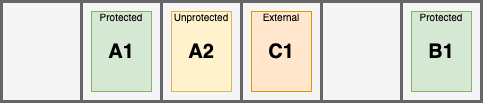
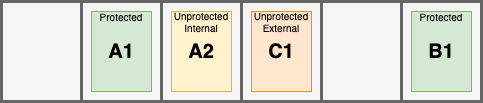
:memo: Changing advice and design files and images

diff --git a/documentation/design.md b/documentation/design.md
@@ -1,50 +1,83 @@
 # Occamy
 
-Occamy is a library designed to be a central entry point for handling
-computationally intense requests. It is intended designed to assist in the 
-coordination of communication and allocation of resources for these requests.
-
-The core constraints for the occamy server are:
-
-- Requests are handled asynchronously but must be performed immediately.
-- Computations are allowed to be done in a distributed fashion across multiple "machines"/"instances".
-- On each instance there is a limited number of requests that can be handled concurrently. This is to avoid having a high CPU load on a server that degrades the results of request.
-- Spare resources should be used whenever possible to avoid wasted resources but must be immediately freed up if required for a new incoming request.
-
-### The Design
-
-The general design and attributes of the server is as follows (for specific details see implementation):
-
-- The occamy server is designed to be part of a distributed system. Each server should be independent and have zero knowledge of what the other servers are doing.
-
-- The occamy server is independent of all logic regarding the actual handling of requests. This was chosen to separate the concerns of managing the CPU allotments for requests and performing the requests. The idea is that this package could be extracted into its own repository and used with other similar services.
-
-- The occamy server is intended to be independent of messaging/queuing protocol even though it is inspired by RabbitMQ, which means there are some concepts that have been adopted. This was chosen to make changing to other technologies easier while not prematurely or unnecessarily abandoning RabbitMQ features.
-
-- The occamy server is designed to handle asychronous messages. These messages should have a header and a body as well as being able to declared successfully completed or not, i.e. acked and nacked, respectively.
- 
-- The server is initialised with a given number of slots as well as a *handler* which can convert a body and header into a task. A task represents a computation that to be done and each slot may contain at most one task. This is to ensure that only a limited number of requests can be handled.
-
 <p align="center">
-<img src="images/slots.png" alt="communication" class="center" width="40%" height="40%">
+<em>
+Servers that utilise spare resources for computational intense distributed tasks. 
+</em>
 </p>
 
-- The server has two handle methods for two different types of messages. 
-  - *Request messages* are messages that represent a request for computation. Requests messages are only sent to one occamy server. Each request will be converted into a task and should have an ID (which isn't necessarily unique). This task will be assigned to a slot.
-  - *Control messages* are messages that provide information to running tasks or the occamy server itself. Control messages are passed to all occamy servers.
-    Once a control message reaches a server it is passed on to one or more tasks based on the task ID in the header or just to the server. 
-    External services and tasks are expected to communicate to tasks via control messages. For example, a request may be cancelled via a control message.
-    If a control message is given without an associated task ID then the message is interpreted like a request messages and converted into a task using the handler, however, it is not immediately assigned to a slot but instead it is set aside to be used in the expansion process (see below).
+Elastic horizontal scaling of services in cloud infrastructure is a convenient and effective way to provide the required resources for running a service with minimal wastage. For computational intense request which have irregular and unpredictable schedules resources often end up being overprovisioned/underutilised to ensure that requests can be handled promptly.
+
+Occamy servers are designed to utilises spare provisioned resources. The server
+
+1. ensures resources can promptly handle any incoming request, and
+2. uses spare resources to assist in processing current requests.
+
+The core idea is to have computational tasks which expand by creating assistant tasks to help the computation and can be stopped to provide resources for new incoming request with the server providing coordination.
+
+<p align="center">
+<em>
+Scaling of tasks within a service.
+</em>
+</p>
+
+Elastic horizontal scaling is like a library that adds or removes bookcases depending on the number of books. In contrast, Occamy's scaling is like adding duplicate books if there is space and removing duplicate books if new books arrive. The name Occamy comes from the fictional creature which can shrink and grow to fit the empty space around it.
+
+
+
+### The Original Use Case
+
+The original use case provides a useful example in understanding the design of the Occamy server. The situation was as follows:
+
+1. There was a distributed service (microservices) for handling optimisation requests in which all communication was asynchronous. The requests had to be handled promptly but had irregular and unpredictable schedules with frequent bursts.
+2. Optimisations required between 4 & 12 CPUs for between one & ten minutes to provide results. Additional CPUs could be used in parallel to provide better or faster results. These optimisation were performed using a master and assistants approach where there was a minimum number of assistants considered necessary.
+3. There was balancing between providing enough resources so that requests could be handled promptly and minimising wastage. 
+
+Ultimately, the requirement to handle requests promptly was a considered a requirement which meant there was a minimum amount of resources provisioned. The aim became to use the spare resources while not blocking or delaying incoming requests. There are two simple scenarios demonstrate the basic requirements.
+
+**Scenario A:** A request comes in while there are no requests currently being handled and no other requests come in while this request is being handled. In this scenario every instance of the microservices should be fully dedicated to handling the request.
+
+**Scenario B:** A request comes in while there are requests being handled which are using more resources than is considered necessary for their respective optimisations. In this case enough of those unnecessary resources used should be freed to ensure the new request has its minimum amount of resources.
+
+
+
+### The Distributed Systems View
+
+An Occamy server is designed for distributed systems. The key points when regarding the whole system are:
+
+- The servers are independent and have no knowledge of the servers.
+
+- Communication to the servers is to be done using some messaging protocol. Messages will contain data along with ability to:
+	- Acknowledge the message as succesfully handled and remove it from the queue.
+	- Reject the message as impossible to handle and remove it from the queue.
+	- Requeue the message if the server can not currently handle it e.g. it is shutting down. 
+
+- The servers accept two kinds of messages:
+  - *Request messages* are messages that represent a request for computation. Requests messages must be only sent to one server.
+  - *Control messages* are messages that provide information to running tasks or to the Occamy server itself. Control messages must be passed to all servers.
 
 <p align="center">
 <img src="images/communication.png" alt="communication" class="center" width="30%" height="30%">
 </p>
- 
+
+### The Server View
+
+Each server is intended to work independently. The key points when considering the individual servers are:
+
+- The server must contain a limited of *slots* which can hold at most one task. A task represents a computation that to be done that also has the ability to handle data of message and the optional ability to create additional tasks. 
+
+<p align="center">
+<img src="images/slots.png" alt="slots" class="center" width="40%" height="40%">
+</p>
+
+- The server has two two methods handling the two kinds of messages: 
+	  - *Request messages* are converted into tasks. These task are assigned to an available slot. If there is no available slot or a task is interrupted before completion the corresponding message is requeued.
+	  - *Control messages* will be passed on to all relevant tasks running or converted into task and set aside to be used in the expansion process (see below). This is based on the data contained in the message.
+
 - The slots will have a status depending on the task.
-  - *Empty* slots are not running and can be overwritten at any time.
-  - Slots with *protected* tasks are running task which have been created due to an incoming request i.e. via the request handler.
-    These tasks are never interrupted except when shutting the server down, in which the original requests will be rejected and requeued.
-  - Slots with *unprotected* or *external* tasks are running tasks which have been generated to utilise spare resources and created in the expansion process (see below). 
+  - *Empty* slots contain no task and can have a task added at any time.
+  - Slots with status *protected* are running task which have been created due to an incoming request i.e. via the request handler. These tasks are never interrupted except when shutting the server down, in which the original message will be rejected and requeued.
+  - Slots with status *unprotected* are running tasks which have been generated to utilise spare resources and created in the expansion process (see below). 
     These can be interrupted at any time. Tasks must be implemented to accept being killed quickly and without consequence.
 
 <p align="center">
@@ -52,17 +85,31 @@ The general design and attributes of the server is as follows (for specific deta
 </p>    
 
 - At regular intervals the server will run an *expansion* process. 
-  This is inspired by the fictional *occamy* creature from *Fantastic Beasts and Where to Find Them* in which the creature grew or shrank in order to fit available space.
-  During this process the server will check if there is empty slots and attempt to generate new tasks in the following order:
-  1. The protected tasks will be checked to see if they can be expanded (tasks are required to have an *Expand*) to create additional tasks. These tasks are given the status *unprotected*. It is important to note that expansion is optional.
-  2. This is repeated for *unprotected* and *external* tasks, which will create tasks with the statuses *unprotected* and *external* respectively.
-  3. The server will use any requests that came in as a control message. The task will be given the status *external*. 
+  During this process the server will check if there is empty slots and attempt to create and add new tasks in the following ways:
+  1. The protected tasks will be checked to see if they can create additional tasks - an optional functionality. These tasks are assigned to slots and marked as *unprotected*.
+  2. This is repeated for tasks in slots as marked *unprotected*.
+  3. The server will use any task that was create from a request that came in as a control message. These task will be assigned slots and marked as *unprotected*
+
+	Tasks are referred to as *internal* if they are created by *protected* or *internal* tasks. Tasks are referred to as *external* if they converted from a control message or are created by a *external* task.
 
 <p align="center">
 <img src="images/expansion.png" alt="expandsion" class="center" width="50%" height="50%">
 </p> 
 
-### Authors
+
+### Comments
+
+- It is recommended that implementations of the server is independent of all logic regarding the actual handling of requests. The functionality of converting messages to tasks should be setable in the initialisation of the server. This is to separate the concerns of managing the resource allotment for requests and handling of the requests.
+
+- In the expansion process the order that *unprotected* tasks are created and add is not prescribed. It may be useful to include some notion of priority.
+
+- All requests for computation should occur through the Occamy server. Tasks that require additional resources should send additional request messages for helper tasks and send a single request for a helper task as a control message.
+
+- Scaling for distributed systems using Occamy servers should not be based on CPU as servers attempt to maximum CPU load. Instead services should be scaled based on the number of protected tasks relative to the maximum allowed tasks.
+
+
+
+### Author
 
 - [Peter E. Finch](github.com/PeterEFinch)
 

diff --git a/documentation/advice.md b/documentation/advice.md
@@ -1,6 +1,12 @@
+# Comments on implmentation
+
+- The occamy server is intended to be independent of messaging/queuing protocol even though it is inspired by RabbitMQ,
+  which means there are some concepts that have been adopted. This was chosen to make changing to other technologies
+  easier while not prematurely or unnecessarily abandoning RabbitMQ features.
+
 # Advice:
 
-- Look at the examples in the examples module. Looking at code and choices 
+- Look at the examples in the examples module. Looking at code and choices
 
 - Each task should be capable of running independently i.e. it shouldn't matter if two tasks are on the same machine or
   not. For example, memory should never be shared across tasks. Even if multiple tasks are working on the same problem
@@ -24,3 +30,75 @@
 
 - If the messaging protocol has a prefetch limit then this should match the number of slots for the channel with the
   request messages.
+
+- Scaling of services should be based on the number of
+
+### OLD DESIGN
+
+The general design and attributes of the server is as follows (for specific details see implementation):
+
+- The occamy server is designed to be part of a distributed system. Each server should be independent and have zero
+  knowledge of what the other servers are doing.
+
+- The occamy server is independent of all logic regarding the actual handling of requests. This was chosen to separate
+  the concerns of managing the CPU allotments for requests and performing the requests. The idea is that this package
+  could be extracted into its own repository and used with other similar services.
+
+- The occamy server is intended to be independent of messaging/queuing protocol even though it is inspired by RabbitMQ,
+  which means there are some concepts that have been adopted. This was chosen to make changing to other technologies
+  easier while not prematurely or unnecessarily abandoning RabbitMQ features.
+
+- The occamy server is designed to handle asychronous messages. These messages should have a header and a body as well
+  as being able to declared successfully completed or not, i.e. acked and nacked, respectively.
+
+- The server is initialised with a given number of slots as well as a *handler* which can convert a body and header into
+  a task. A task represents a computation that to be done and each slot may contain at most one task. This is to ensure
+  that only a limited number of requests can be handled.
+
+<p align="center">
+<img src="images/slots.png" alt="communication" class="center" width="40%" height="40%">
+</p>
+
+- The server has two handle methods for two different types of messages.
+    - *Request messages* are messages that represent a request for computation. Requests messages are only sent to one
+      occamy server. Each request will be converted into a task and should have an ID (which isn't necessarily unique).
+      This task will be assigned to a slot.
+    - *Control messages* are messages that provide information to running tasks or the occamy server itself. Control
+      messages are passed to all occamy servers. Once a control message reaches a server it is passed on to one or more
+      tasks based on the task ID in the header or just to the server. External services and tasks are expected to
+      communicate to tasks via control messages. For example, a request may be cancelled via a control message. If a
+      control message is given without an associated task ID then the message is interpreted like a request messages and
+      converted into a task using the handler, however, it is not immediately assigned to a slot but instead it is set
+      aside to be used in the expansion process (see below).
+
+<p align="center">
+<img src="images/communication.png" alt="communication" class="center" width="30%" height="30%">
+</p>
+
+- The slots will have a status depending on the task.
+    - *Empty* slots are not running and can be overwritten at any time.
+    - Slots with *protected* tasks are running task which have been created due to an incoming request i.e. via the
+      request handler. These tasks are never interrupted except when shutting the server down, in which the original
+      requests will be rejected and requeued.
+    - Slots with *unprotected* or *external* tasks are running tasks which have been generated to utilise spare
+      resources and created in the expansion process (see below). These can be interrupted at any time. Tasks must be
+      implemented to accept being killed quickly and without consequence.
+
+<p align="center">
+<img src="images/slots_w_tasks.png" alt="slots with statuses" class="center" width="40%" height="40%">
+</p>    
+
+- At regular intervals the server will run an *expansion* process. This is inspired by the fictional *occamy* creature
+  from *Fantastic Beasts and Where to Find Them* in which the creature grew or shrank in order to fit available space.
+  During this process the server will check if there is empty slots and attempt to generate new tasks in the following
+  order:
+    1. The protected tasks will be checked to see if they can be expanded (tasks are required to have an *Expand*) to
+       create additional tasks. These tasks are given the status *unprotected*. It is important to note that expansion
+       is optional.
+    2. This is repeated for *unprotected* and *external* tasks, which will create tasks with the statuses *unprotected*
+       and *external* respectively.
+    3. The server will use any requests that came in as a control message. The task will be given the status *external*.
+
+<p align="center">
+<img src="images/expansion.png" alt="expandsion" class="center" width="50%" height="50%">
+</p> 
